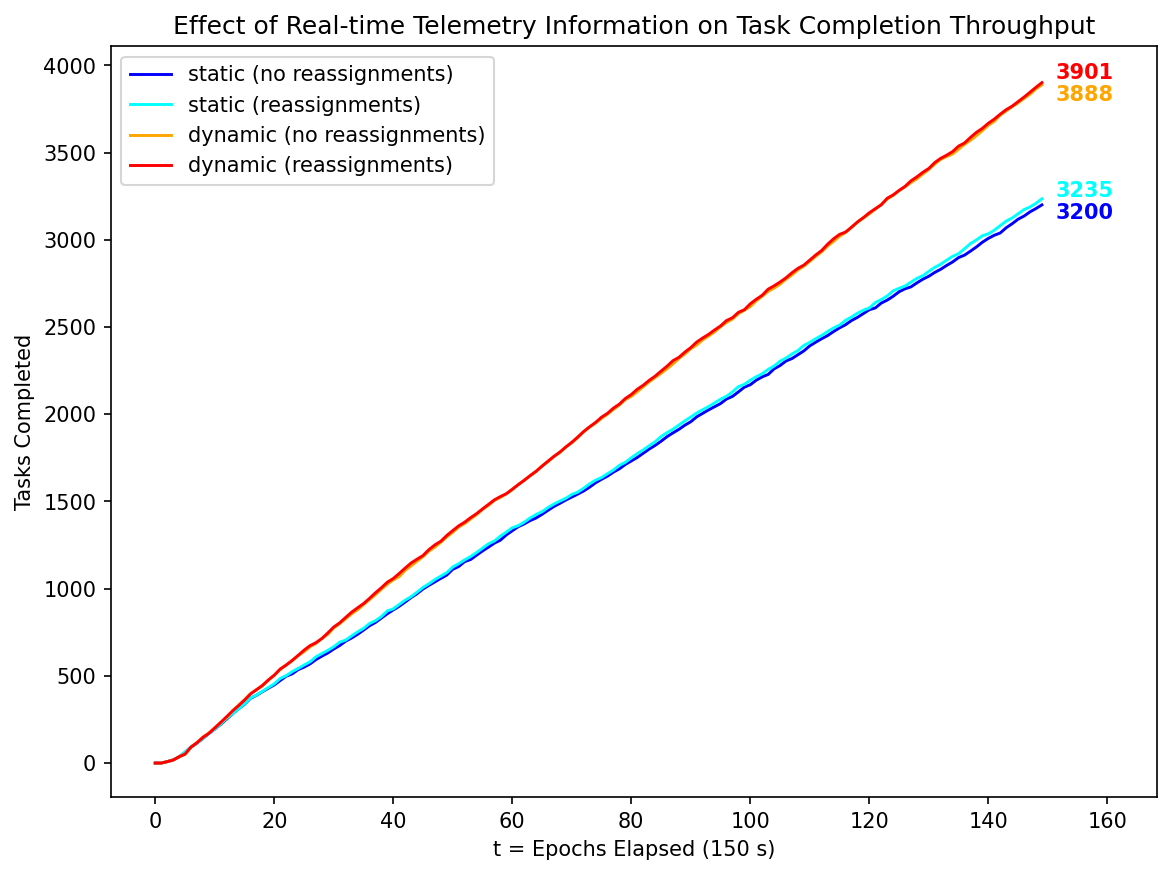
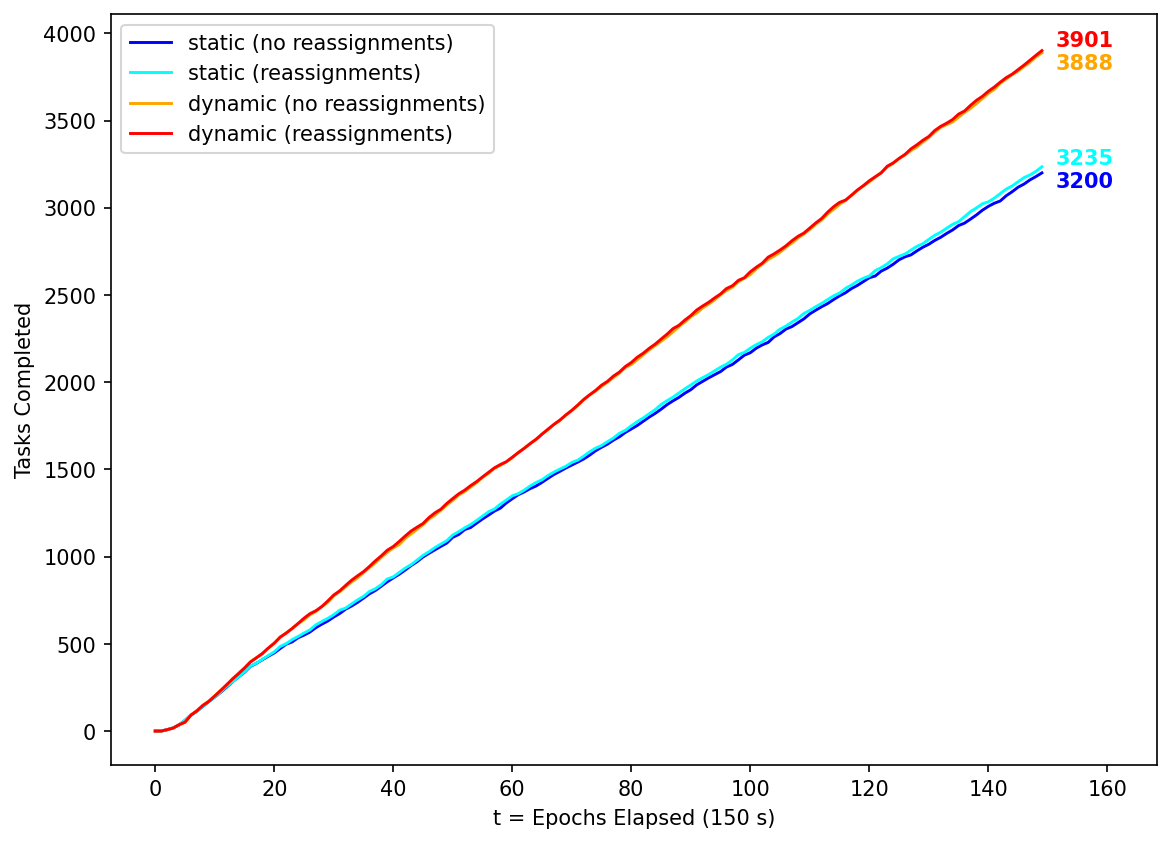
Drop the in-image captions from all seven figures
Every figure baked a title into the PNG, duplicating the LaTeX \caption.
Removed the figure-level titles from the code paths that produce the kept
figures, along with Fig 6's "network is synthetic" note and Fig 10's
two-line footnote about which rules are ours, and regenerated all 14.

Kept: axis labels, legends, per-bar and end-of-line value labels, Fig 6's
subplot titles (CPU/Memory/Network x p50/p90), Fig 5's CPU/Memory panel
titles, and Fig 7's "MILP time limit 60 s" label -- that one names a
plotted reference line, so the dashed line is meaningless without it.

The title/subtitle/caption parameters and the locals that only fed them
are gone rather than left dead.

diff --git a/scripts/plot_raw_data_paper_style.py b/scripts/plot_raw_data_paper_style.py
@@ -38,7 +38,6 @@ import numpy as np  # noqa: E402
 REPO_ROOT = Path(__file__).resolve().parents[1]
 
 # --- house style for the latency figures (verbatim from the archived scripts)
-TITLE_FS = 19
 LABEL_FS = 17
 TICK_FS = 15
 LEGEND_FS = 14
@@ -99,8 +98,8 @@ def _epoch_ticks(ax, epochs: list[int], x: np.ndarray, stride: int) -> None:
 # Fig. 4 / Fig. 7 -- per-epoch latency bars (plot_multi_run_query.py style)
 # ---------------------------------------------------------------------------
 
-def plot_latency(rows: list[dict], series, ylabel: str, title_prefix: str,
-                 subtitle: str, out_path: Path, time_limit_ms: float | None = None,
+def plot_latency(rows: list[dict], series, ylabel: str, out_path: Path,
+                 time_limit_ms: float | None = None,
                  stride: int = 3) -> None:
     epochs = sorted({int(r["epoch"]) for r in rows})
     x = np.arange(len(epochs), dtype=float)
@@ -129,8 +128,6 @@ def plot_latency(rows: list[dict], series, ylabel: str, title_prefix: str,
     ax.set_yscale("log")
     ax.grid(axis="y", alpha=0.3, which="major")
     ax.tick_params(axis="both", labelsize=TICK_FS)
-    ax.set_title(f"{title_prefix}\nApproximate Layer vs Elasticsearch\n{subtitle}",
-                 fontsize=TITLE_FS, pad=14)
     _epoch_ticks(ax, epochs, x, stride)
     ax.set_ylim(top=ax.get_ylim()[1] * (3.0 if time_limit_ms is not None else 1.6))
 
@@ -186,9 +183,8 @@ def _spread_labels(values: list[float], min_gap: float) -> list[float]:
     return ys
 
 
-def plot_completion(rows: list[dict], scenarios, title: str, out_path: Path,
+def plot_completion(rows: list[dict], scenarios, out_path: Path,
                     errorbars: bool = False, fmt: str = "{:.0f}",
-                    caption: str | None = None,
                     xlabel: str = COMPLETION_XLABEL) -> None:
     """One panel: cumulative mean curves, boxed upper-left legend, bold
     coloured final values at the right end of each line -- the paper's layout."""
@@ -209,7 +205,6 @@ def plot_completion(rows: list[dict], scenarios, title: str, out_path: Path,
     last_epoch = max(epochs)
     ax.set_xlabel(xlabel)
     ax.set_ylabel(YLABEL)
-    ax.set_title(title)
     ax.legend(loc="upper left")
 
     # Room at the right for the value labels, and enough headroom that the
@@ -223,10 +218,6 @@ def plot_completion(rows: list[dict], scenarios, title: str, out_path: Path,
     for value, y, color in zip(finals, ys, colors):
         ax.annotate(fmt.format(value), xy=(last_epoch + 0.015 * last_epoch, y),
                     ha="left", va="center", color=color, fontweight="bold")
-
-    if caption:
-        ax.text(0.5, -0.135, caption, transform=ax.transAxes, ha="center",
-                va="top", fontsize=9)
 
     out_path.parent.mkdir(parents=True, exist_ok=True)
     fig.savefig(out_path, dpi=PAPER_DPI, bbox_inches="tight")
@@ -262,18 +253,12 @@ def main() -> None:
     comp810 = load(args.completion_fig810_csv)
     comp9 = load(args.completion_fig9_csv)
     n_runs9 = len({r["run"] for r in comp9})
-    n_epochs = len({int(r["epoch"]) for r in assign})
-    rows_per_epoch = int(assign[0]["rows"])
-
     # Fig. 4 -- query latency comparison (older 300 s assignment run).
     plot_latency(
         assign,
         [("Approximate Query", "sketch_query_ms", SERVER_COLOR),
          ("Elasticsearch Query", "es_query_ms", ES_COLOR)],
         ylabel="Query Time (ms)",
-        title_prefix="Query Time Comparison",
-        subtitle=(f"({n_epochs} epochs of {ASSIGNMENT_EPOCH_S} s, "
-                  f"{rows_per_epoch:,} rows/epoch; mean 5.5 ms vs 942 ms)"),
         out_path=args.out_dir / "fig4_query_latency.png",
     )
 
@@ -283,9 +268,6 @@ def main() -> None:
         [("Solver (Approximate Input)", "sketch_solver_ms", GREEN),
          ("Solver (Elastic Search Input)", "es_solver_ms", PURPLE)],
         ylabel="Solver Time (ms)",
-        title_prefix="Solver Time Comparison",
-        subtitle=(f"({n_epochs} epochs of {ASSIGNMENT_EPOCH_S} s; bars at the "
-                  f"dashed line hit the MILP deadline)"),
         out_path=args.out_dir / "fig7_solver_runtime.png",
         time_limit_ms=args.solver_time_limit_ms,
     )
@@ -298,7 +280,6 @@ def main() -> None:
          ("static (reassignments)", "reassign", "cyan"),
          ("dynamic (no reassignments)", "dynamic", "orange"),
          ("dynamic (reassignments)", "dynamic+reassign", "red")],
-        title="Effect of Real-time Telemetry Information on Task Completion Throughput",
         out_path=args.out_dir / "fig8_completion.png",
     )
 
@@ -309,8 +290,6 @@ def main() -> None:
         [("static", "static", "blue"),
          ("elastic (compression = 100)", "es", "teal"),
          ("approx", "sketch", "orange")],
-        title=("Tasks Completed Using Drop-in Layer vs Elasticsearch Quantiles "
-               f"(mean \u00b1 std, n = {n_runs9} runs)"),
         out_path=args.out_dir / "fig9_sketch_vs_es.png",
         errorbars=True,
         fmt="{:.1f}",
@@ -327,11 +306,7 @@ def main() -> None:
          ("avg", "window-avg", "purple"),
          ("p90 (ours)", "p90", "grey"),
          ("per-epoch avg (ours)", "avg-epoch", "brown")],
-        title="Effect of Dynamic Telemetry Update Rule on Number of Tasks Completed",
         out_path=args.out_dir / "fig10_update_rules.png",
-        caption=("p90 and per-epoch avg are ours, not the paper's.\n"
-                 "The paper's \u201cavg\u201d is the recent-window averaging "
-                 "of its reference [1], i.e. our window-avg rule."),
     )
 
 

diff --git a/scripts/plot_resource_benchmark.py b/scripts/plot_resource_benchmark.py
@@ -370,7 +370,7 @@ def _draw_sketch_two_series(ax, ingest: dict, query: dict, ylabel: str,
 
 def plot_sketch_resource(ingest_cpu: dict, query_cpu: dict,
                          ingest_mem: dict, query_mem: dict,
-                         suptitle: str, out_path: Path) -> None:
+                         out_path: Path) -> None:
     """Two-panel sketch-server-only figure: CPU (log y) on the left, memory on
     the right; each panel groups ingestion vs query bars per epoch.
     """
@@ -384,15 +384,12 @@ def plot_sketch_resource(ingest_cpu: dict, query_cpu: dict,
         axes[1], ingest=ingest_mem, query=query_mem,
         ylabel="Whole-process RSS (MB)", title="Memory",
         font_scale=font_scale, log_y=False, show_legend=False)
-    n = max(n_top, n_bot)
-    fig.suptitle(f"{suptitle}  (mean ± std, n={n} runs)",
-                 fontsize=BAR_TITLE_FS * font_scale, y=0.99)
     # Single shared legend centered below both panels.
     handles, labels = axes[0].get_legend_handles_labels()
     fig.legend(handles, labels, fontsize=BAR_LEGEND_FS * font_scale,
                frameon=False, loc="lower center", ncol=2,
                bbox_to_anchor=(0.5, -0.01))
-    fig.tight_layout(rect=(0, 0.04, 1, 0.96))
+    fig.tight_layout(rect=(0, 0.04, 1, 1.0))
     plt.savefig(out_path, dpi=220, bbox_inches="tight", pad_inches=0.3)
     plt.close(fig)
     print(f"[plot] wrote {out_path}")
@@ -555,7 +552,6 @@ def main() -> None:
             query_cpu={"rows": rows, "col": "cpu_per_query_ms"},
             ingest_mem={"rows": rows, "col": "rss_idle_mb"},
             query_mem={"rows": rows, "col": "rss_mean_mb"},
-            suptitle="Approximate Layer resource usage",
             out_path=out_dir / "sketch_resource.png")
 
     if not args.no_prune:

diff --git a/scripts/plot_raw_data_accuracy.py b/scripts/plot_raw_data_accuracy.py
@@ -153,19 +153,13 @@ def main() -> None:
                 ax.spines[side].set_visible(False)
 
     fig.supylabel("Mean rel. error (%)", fontsize=LABEL_FS + 1)
-    fig.suptitle("Mean Rel. Error vs Ground Truth\n"
-                 f"(per-run mean over {len({r['key'] for r in rows})} keys; "
-                 f"mean +- sd across n={n_runs} runs)", fontsize=TITLE_FS + 2)
-    # Lay the axes out first, then park the legend and the note in the margin
-    # the rect reserved for them. `bbox_inches="tight"` is deliberately not used:
-    # it re-crops the figure and drags the two into the panels.
-    fig.tight_layout(rect=(0.035, 0.085, 1.0, 0.93))
+    # Lay the axes out first, then park the legend in the margin the rect
+    # reserves for it.  `bbox_inches="tight"` is deliberately not used: it
+    # re-crops the figure and drags the legend into the panels.
+    fig.tight_layout(rect=(0.035, 0.055, 1.0, 0.995))
     handles, labels = axes[0][0].get_legend_handles_labels()
     fig.legend(handles, labels, loc="lower center", ncol=min(3, len(series)),
-               fontsize=LEGEND_FS, frameon=False, bbox_to_anchor=(0.5, 0.032))
-    note = ("network is synthetic: raw_data has no per-node network metric; "
-            "CPU and memory are drawn from the real trace")
-    fig.text(0.5, 0.008, note, ha="center", fontsize=LEGEND_FS - 2, color="#666666")
+               fontsize=LEGEND_FS, frameon=False, bbox_to_anchor=(0.5, 0.006))
     args.out.parent.mkdir(parents=True, exist_ok=True)
     fig.savefig(args.out, dpi=DPI)
     plt.close(fig)
